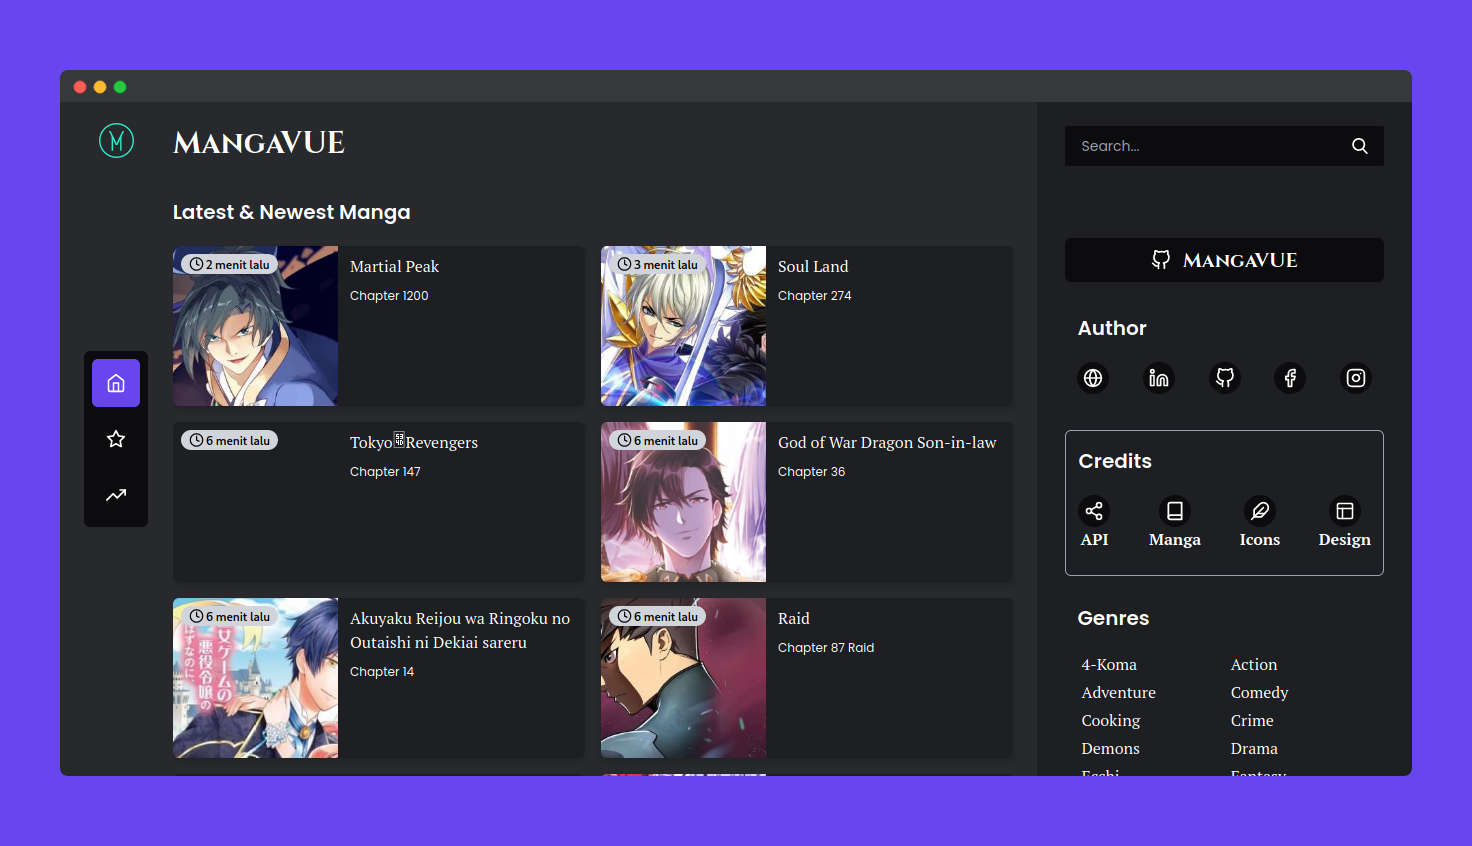
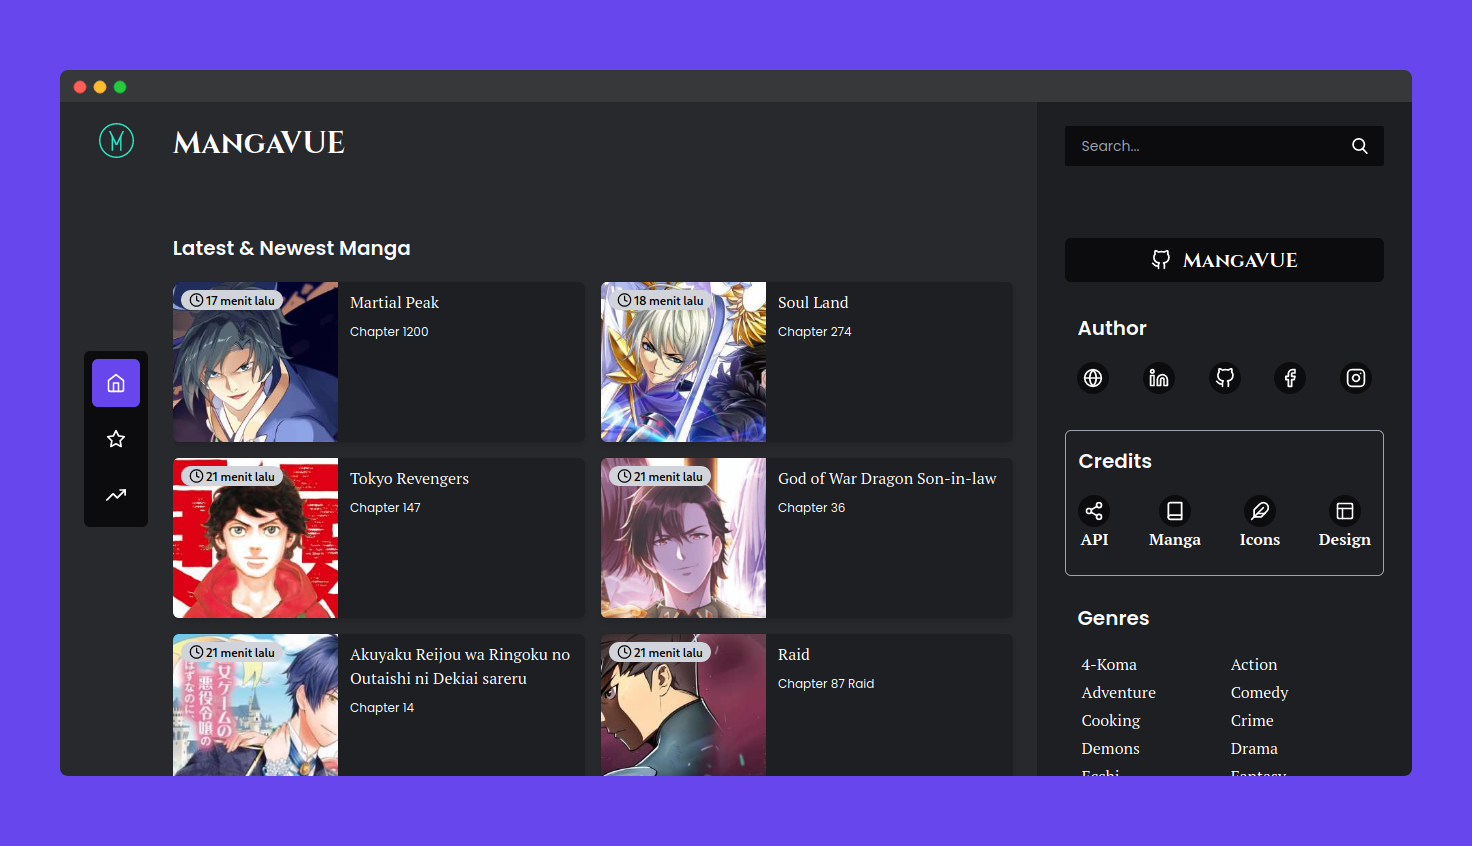
fix misalignment && change thumb image

Changed region(s): [[0.0938, 0.2459, 0.375, 0.922], [0.4062, 0.2766, 0.6875, 0.922]]

diff --git a/src/components/MainContent.vue b/src/components/MainContent.vue
@@ -12,7 +12,7 @@
 			</div>
       <span class="hidden md:block font-cinzel text-3xl font-bold text-white">MangaVUE</span>
     </div>
-    <router-view class="mb-24 mt-2 md:mb-2 md:mt-3" />
+    <router-view class="mb-24 mt-2 md:mb-2 md:mt-12" />
 	</div>
 </template>
 
